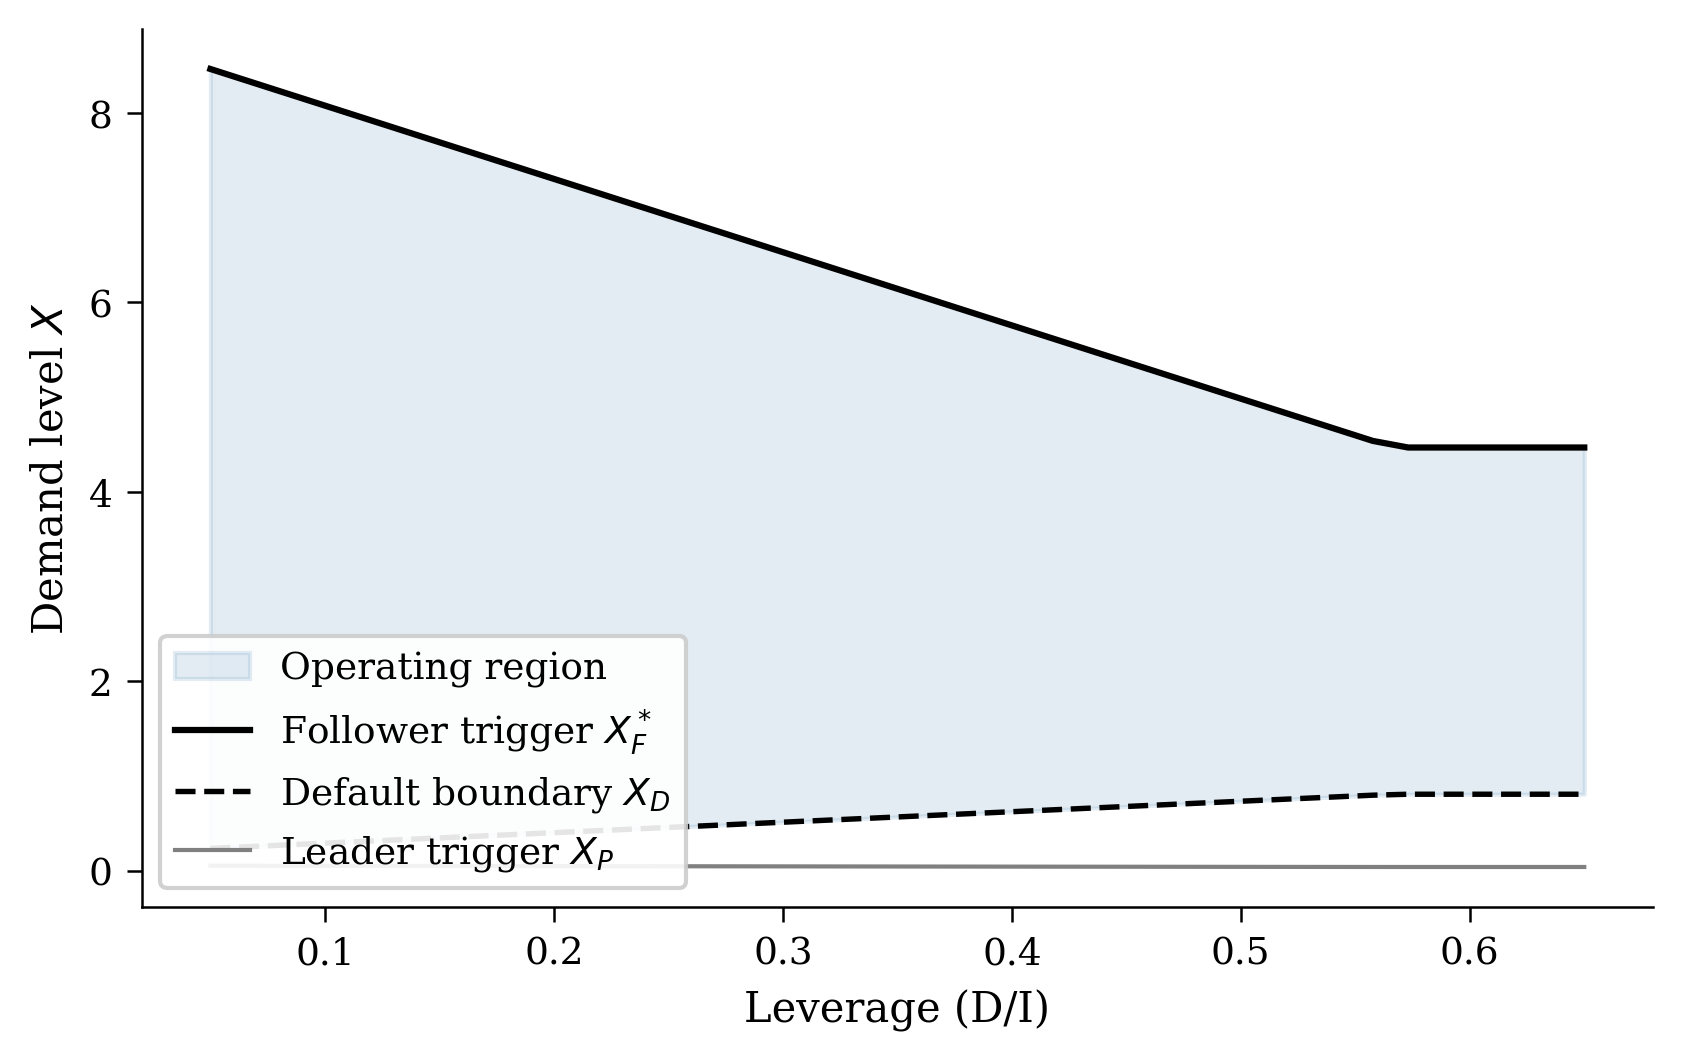
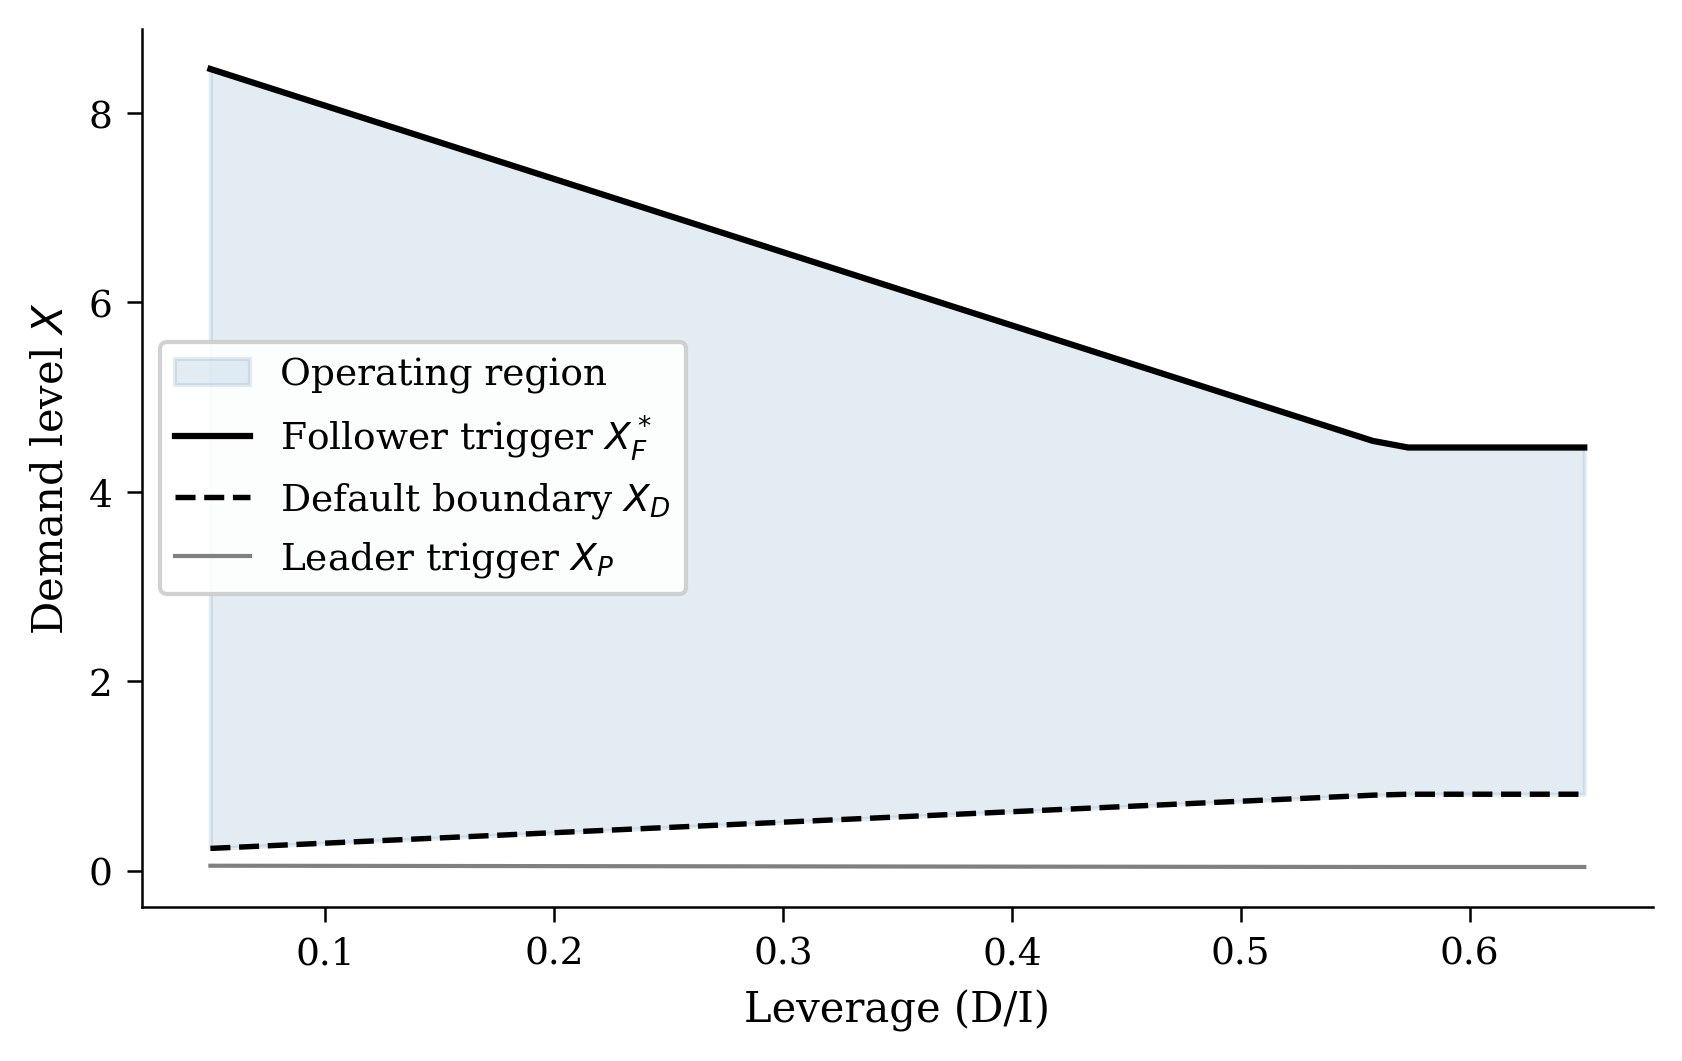
Move Fig 5 legend to center-left

Changed region(s): [[0.0927, 0.591, 0.4328, 0.8398], [0.0927, 0.311, 0.4328, 0.5598]]

diff --git a/paper/generate_figures.py b/paper/generate_figures.py
@@ -330,7 +330,7 @@ def fig_default_boundaries():
 
     ax.set_xlabel("Leverage (D/I)")
     ax.set_ylabel(r"Demand level $X$")
-    ax.legend(loc="lower left", fontsize=9, framealpha=0.9)
+    ax.legend(loc="center left", fontsize=9, framealpha=0.9)
     _save(fig, "fig_default_boundaries")
 
 
